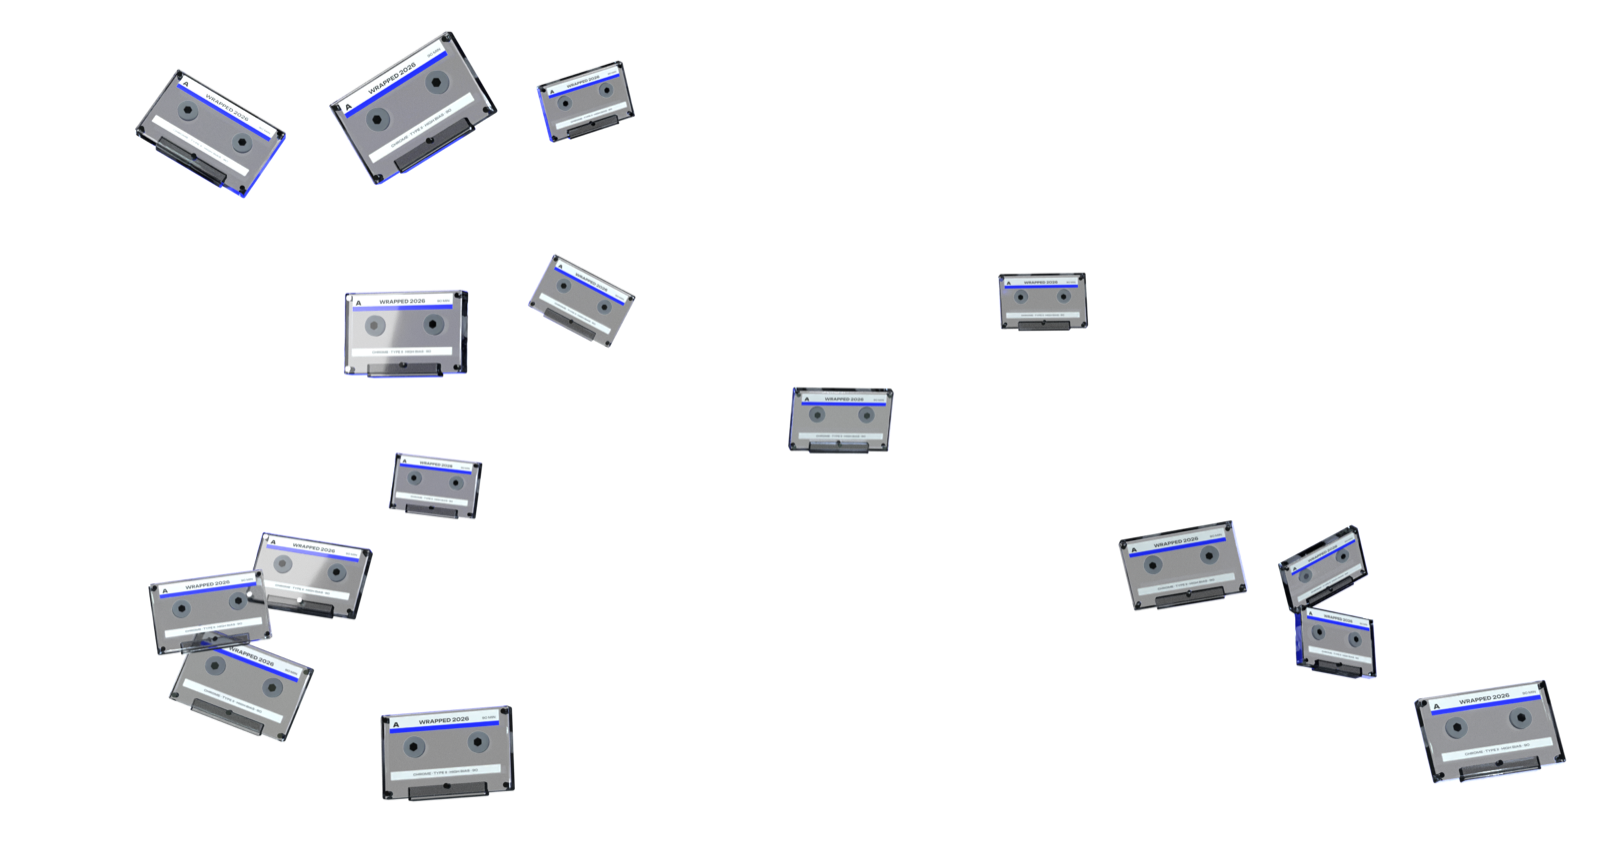
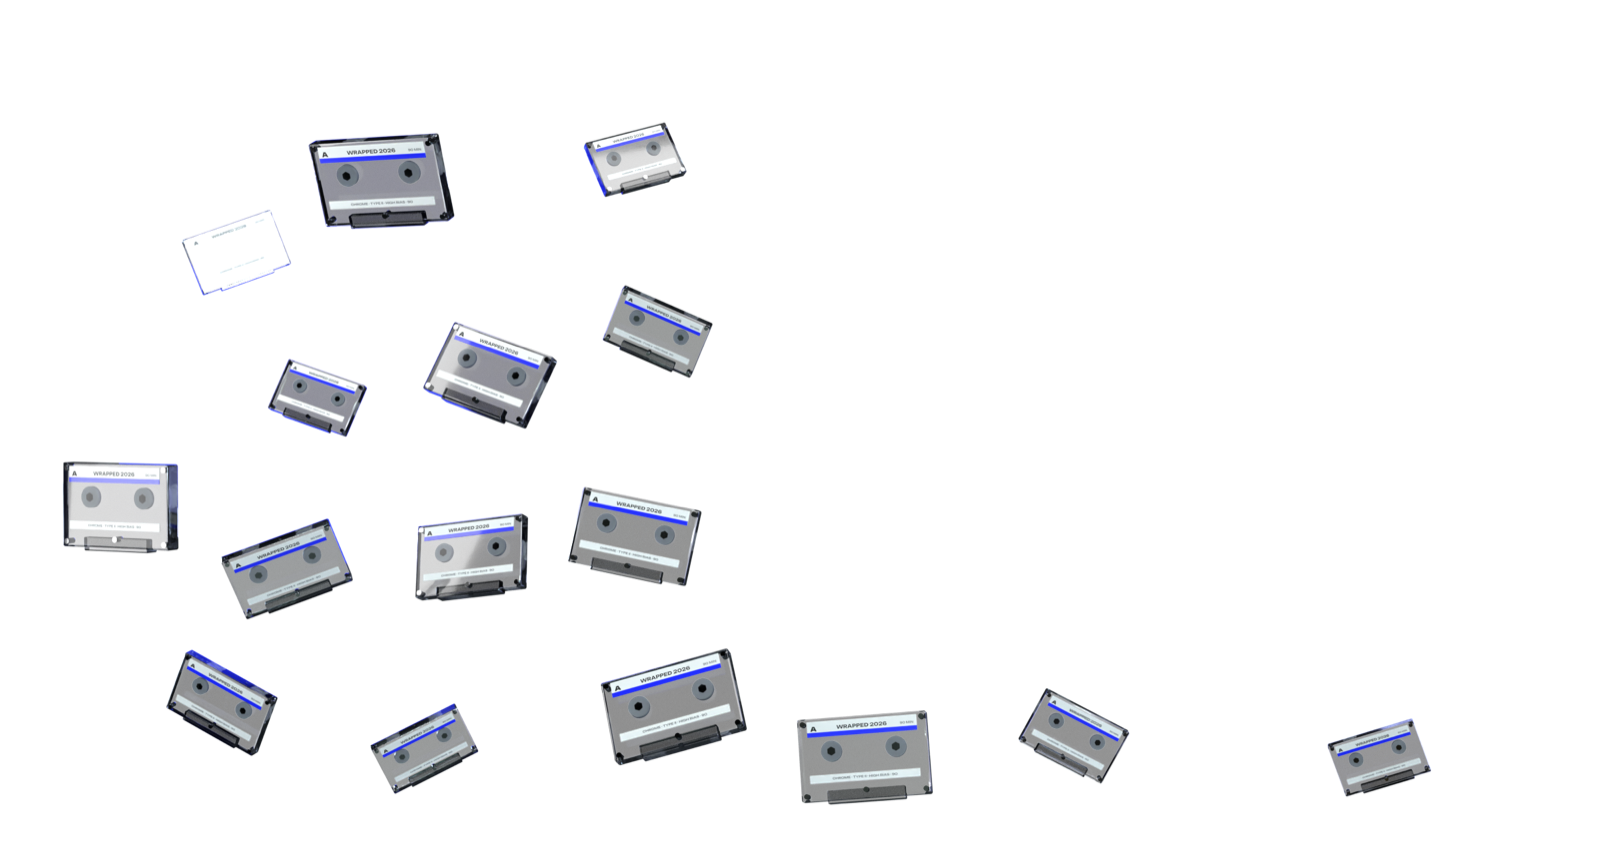
Drifting cassettes and records keep clear of all text

diff --git a/js/chapters/c03_data.js b/js/chapters/c03_data.js
@@ -12,11 +12,13 @@ export class Data extends Chapter {
     this.hg = new Hourglass(); this.scene.add(this.hg.group);
     // background floaters: each one drifts on its own; a click sends it flying to a new spot
     const spot = () => new THREE.Vector2((r() - 0.5) * 0.96, (r() - 0.5) * 0.9);
+    const ext = {};                                          // half extents of each model, at scale 1, in its face-on view
     const floater = (m, key, size) => { const h = spot(), f = { m, key, size, at: h.clone(), from: h.clone(), to: h.clone(), t0: -9, z: -1 - r() * 2.5, ph: r() * 6.283, sp: 0.15 + r() * 0.25, e: new THREE.Euler(1.35 + (r() - 0.5) * 0.9, (r() - 0.5) * 1.0, (r() - 0.5) * 1.3, 'XZY'), w: 0.3 + r() * 0.5, flip: new THREE.Vector3(r() - 0.5, r() - 0.5, r() - 0.5).normalize(), spot };
-      m.traverse(o => { o.userData.fl = f; }); this.scene.add(m); return f; };
+      if (!ext[key]) { const d = new THREE.Box3().setFromObject(m).getSize(new THREE.Vector3()).toArray().sort((a, b) => b - a); ext[key] = [d[0] / 2, d[1] / 2]; }
+      f.ext = ext[key]; m.traverse(o => { o.userData.fl = f; }); this.scene.add(m); return f; };
     this.floaters = [
       ...Array.from({ length: 16 }, () => floater(model('cassette'), 'tracks', 0.7 + r() * 0.5)),
-      ...Array.from({ length: 28 }, (_, i) => floater(model('vinyl', i % 4 === 0 ? { ultra_matte: 'white' } : i % 3 === 0 ? { ultra_matte: 'black_matte' } : {}), 'artists', 0.55 + r() * 0.6)),
+      ...Array.from({ length: 22 }, (_, i) => floater(model('vinyl', i % 4 === 0 ? { ultra_matte: 'white' } : i % 3 === 0 ? { ultra_matte: 'black_matte' } : {}), 'artists', 0.55 + r() * 0.6)),
     ];
     this.ray = new THREE.Raycaster(); this.ndc = new THREE.Vector2(); this.qf = new THREE.Quaternion();
     let down = null;
@@ -28,8 +30,7 @@ export class Data extends Chapter {
       this.ray.setFromCamera(this.ndc, this.camera);
       const hit = this.ray.intersectObjects(this.floaters.map(f => f.m), true)[0];
       const f = hit && hit.object.userData.fl; if (!f) return;
-      let to; do { to = f.spot(); } while (to.distanceTo(f.at) < 0.35);
-      f.from.copy(f.at); f.to.copy(to); f.t0 = this.t;
+      f.from.copy(f.at); f.to.copy(this.freeSpot(f, f.at)); f.t0 = this.t;
     });
     const shares = Array.from({ length: 18 }, () => Math.pow(r(), 2.2)).sort((a, b) => b - a);
     this.gen = []; let total = 0;
@@ -37,6 +38,29 @@ export class Data extends Chapter {
     this.genre = new Records(total); this.scene.add(this.genre.group);
     this.gen.forEach(g => { for (let k = 0; k < g.h; k++) this.genre.color(g.start + k, g.i < 3 ? C.ultra : g.i < 5 ? C.white : 0x18181c); });
     this.tmp = new THREE.Vector3(); this.Y = new THREE.Vector3(0, 1, 0); this.q = new THREE.Quaternion(); this.q2 = new THREE.Quaternion(); this.e = new THREE.Euler(); this.pos = new THREE.Vector3();
+  }
+  /** Screen boxes of all text / bars near each floater area, stored relative to the area's anchor top. */
+  keepOut() {
+    const items = [...this.el.querySelectorAll('.it.t, .it.shape')].map(e => e.getBoundingClientRect()).filter(r => r.width > 0);
+    this.kept = Object.assign(this.kept || {}, { w: this.world.w });
+    for (const key of ['tracks', 'artists']) {
+      const a = this.anchors[key]; if (!a) { this.kept[key] = []; continue; }
+      const ar = a.getBoundingClientRect(), cy = (ar.top + ar.bottom) / 2, half = ar.height * 1.15 / 2 + 200;
+      this.kept[key] = items.filter(r => r.bottom > cy - half && r.top < cy + half).map(r => [r.left - 6, r.top - 6 - ar.top, r.right + 6, r.bottom + 6 - ar.top]);
+    }
+  }
+  /** A random spot (normalised area coords) where the floater, with its drift, stays clear of the text. */
+  freeSpot(f, away) {
+    const a = this.anchors[f.key], ar = a.getBoundingClientRect(), Wp = this.world.w, Hp = ar.height * 1.15, rects = (this.kept && this.kept[f.key]) || [];
+    const vp = this.viewport(), k = vp.h / this.world.h, S = f.size * (vp.w / 1440) * (f.key === 'tracks' ? 120 : 110);
+    const rx = f.ext[0] * S / k + 0.09 * Wp, ry = f.ext[1] * S / k + 0.09 * Hp;
+    for (let n = 0; n < 200; n++) {
+      const u = (Math.random() - 0.5) * 0.96, v = (Math.random() - 0.5) * 0.9;
+      if (away && Math.hypot(u - away.x, v - away.y) < 0.3 && n < 150) continue;
+      const X = u * Wp + Wp / 2, Y = ar.height / 2 - v * Hp, g = n < 120 ? 1 : 0.4;
+      if (!rects.some(q => X > q[0] - rx * g && X < q[2] + rx * g && Y > q[1] - ry * g && Y < q[3] + ry * g)) return new THREE.Vector2(u, v);
+    }
+    return new THREE.Vector2((Math.random() > 0.5 ? 0.42 : -0.42), (Math.random() - 0.5) * 0.8);
   }
   update(p, info, dt) {
     this.t += dt;
@@ -54,17 +78,28 @@ export class Data extends Chapter {
       this.hg.update(T, v, 1 + kick * 3);
     }
     // cassettes and records drifting behind the text; a clicked one arcs over to its new spot, flipping once
-    const vp = this.viewport(), U = vp.w / 1440;
+    const vp = this.viewport(), U = vp.w / 1440, Wp = this.world.w, cz = this.camera.position.z;
+    if (!this.kept || this.kept.w !== Wp || (this.frame = (this.frame || 0) + 1) % 30 === 0) this.keepOut();
     for (const key of ['tracks', 'artists']) {
       const c = this.box(key); if (!c) continue;
-      const v = easeOut(range(c.vis, 0.05, 0.9)), H = c.h * 1.15;
+      const v = easeOut(range(c.vis, 0.05, 0.9)), H = c.h * 1.15, rects = this.kept[key].map(q => [q[0], q[1] + c.top, q[2], q[3] + c.top]);
+      if (!this.kept[key + 'Placed']) { this.kept[key + 'Placed'] = 1; for (const f of this.floaters) if (f.key === key) { const s0 = this.freeSpot(f); f.at.copy(s0); f.from.copy(s0); f.to.copy(s0); } }
       for (const f of this.floaters) {
         if (f.key !== key) continue;
         const k = clamp((T - f.t0) / 1.2), e2 = easeInOut(k), arc = Math.sin(k * Math.PI);
         f.at.lerpVectors(f.from, f.to, e2);
         const dx = Math.sin(T * f.sp * 1.6 + f.ph) * 0.06 + Math.sin(T * 0.23 + f.ph * 2) * 0.03, dy = Math.cos(T * f.sp * 1.3 + f.ph * 1.3) * 0.09;
         const S = f.size * U * (key === 'tracks' ? 120 : 110);
-        f.m.position.set((f.at.x + dx) * vp.w, c.y + (f.at.y + dy) * H, f.z * S + arc * S * 2.5);
+        // keep clear of every line of text: work in screen pixels, push the object out of any text box it touches
+        const z = f.z * S + arc * S * 2.5, persp = cz / (cz - z), rx = f.ext[0] * S / c.k * persp + 8, ry = f.ext[1] * S / c.k * persp + 8;
+        let X = (f.at.x + dx) * Wp + Wp / 2, Y = (c.top + c.bottom) / 2 - (f.at.y + dy) * H / c.k;
+        for (let it = 0; it < 3; it++) for (const q of rects) {
+          if (X > q[0] - rx && X < q[2] + rx && Y > q[1] - ry && Y < q[3] + ry) {
+            const m = [X - (q[0] - rx), (q[2] + rx) - X, Y - (q[1] - ry), (q[3] + ry) - Y], i = m.indexOf(Math.min(...m));
+            if (i === 0) X = q[0] - rx; else if (i === 1) X = q[2] + rx; else if (i === 2) Y = q[1] - ry; else Y = q[3] + ry;
+          }
+        }
+        f.m.position.set((X - Wp / 2) * c.k / persp, -(Y - this.world.h / 2) * c.k / persp, z);
         this.e.set(f.e.x + Math.sin(T * f.w * 1.4 + f.ph) * 0.45, key === 'artists' ? f.e.y + T * f.w * 2.2 : f.e.y + Math.sin(T * f.w) * 0.5, f.e.z + Math.sin(T * f.w * 0.8 + f.ph) * 0.4, 'XZY'); f.m.quaternion.setFromEuler(this.e);
         if (k > 0 && k < 1) { this.qf.setFromAxisAngle(f.flip, e2 * Math.PI * 2); f.m.quaternion.premultiply(this.qf); }
         f.m.scale.setScalar(Math.max(S * v, 1e-4));

diff --git a/index.html b/index.html
@@ -19,7 +19,7 @@
   "./js/chapters/c00_hero.js": "./js/chapters/c00_hero.js?v=d3c09ff1",
   "./js/chapters/c01_ring.js": "./js/chapters/c01_ring.js?v=22615780",
   "./js/chapters/c02_history.js": "./js/chapters/c02_history.js?v=cf9b9a67",
-  "./js/chapters/c03_data.js": "./js/chapters/c03_data.js?v=18ec11fc",
+  "./js/chapters/c03_data.js": "./js/chapters/c03_data.js?v=60487425",
   "./js/chapters/c04_lab.js": "./js/chapters/c04_lab.js?v=3a282fbf",
   "./js/chapters/c05_story.js": "./js/chapters/c05_story.js?v=1e4505a7",
   "./js/chapters/c06_social.js": "./js/chapters/c06_social.js?v=cdd999a7",

diff --git a/blender/objects3d.py b/blender/objects3d.py
@@ -458,23 +458,31 @@ def c_data():
         vinyl_fast(M_of(Vector((0, 0, -7 + k * 0.2)) + off, Euler((0, 0, a)).to_matrix().to_4x4(), 1.6), 'ultra_matte' if k % 10 == 9 else 'black_matte')
     camera((0, -26, 4.5), (0, 0, 0.0), 55)
     render('data_minutes')
-    # TRACKS — cassettes drifting across the whole width, behind the text
+    # TRACKS / ARTISTS — objects drifting across the whole width, but never under the text (boxes in Figma px of the area)
+    def free_spots(n, W, H, keep, rpx, seed):
+        rng = random.Random(seed); out = []; tries = 0
+        while len(out) < n:
+            tries += 1
+            if tries > 20000: break
+            x, y = rng.uniform(rpx, W - rpx), rng.uniform(rpx * 0.7, H - rpx * 0.7)
+            if any(x > k[0] - rpx and x < k[2] + rpx and y > k[1] - rpx * 0.7 and y < k[3] + rpx * 0.7 for k in keep): continue
+            if any((x - o[0]) ** 2 + (y - o[1]) ** 2 < (rpx * 1.5) ** 2 for o in out): continue
+            out.append((x, y))
+        return out
+    FW = 21.6
     reset(); MATS.clear(); VCACHE.clear()
     setup(2400, 1280, 110, glass=True, env_strength=0.5); rig(0.6)
-    rng = random.Random(8); FW = 21.6; FH = FW * 1280 / 2400
-    for i in range(16):
-        x = (rng.random() - .5) * .9 * FW; z = (rng.random() - .5) * .82 * FH; y = rng.uniform(0, 4)
-        cassette(None, loc=(x, y, z), rot=(math.radians(90) + rng.uniform(-.45, .45), rng.uniform(-.6, .6), rng.uniform(-.5, .5)), scale=rng.uniform(.6, 1.0), name='c%d' % i, with_tape=False)
+    rng = random.Random(8); FH = FW * 1280 / 2400
+    for i, (x, y) in enumerate(free_spots(16, 1440, 767, [(40, 40, 140, 80), (720, 90, 1410, 540)], 95, 8)):
+        cassette(None, loc=((x / 1440 - .5) * FW, rng.uniform(0, 1.5), -(y / 767 - .5) * FH), rot=(math.radians(90) + rng.uniform(-.45, .45), rng.uniform(-.6, .6), rng.uniform(-.5, .5)), scale=rng.uniform(.6, .95), name='c%d' % i, with_tape=False)
     camera((0, -30, 0), (0, 0, 0), 50)
     render('data_tracks')
-    # ARTISTS — records drifting across the whole width
     reset(); MATS.clear(); VCACHE.clear()
     setup(2400, 1070, 110, env_strength=0.2); rig(0.6)
     rng = random.Random(9); FH = FW * 1070 / 2400
-    for i in range(28):
-        x = (rng.random() - .5) * .92 * FW; z = (rng.random() - .5) * .85 * FH; y = rng.uniform(0, 4)
+    for i, (x, y) in enumerate(free_spots(14, 1440, 644, [(40, 80, 180, 105), (10, 135, 870, 490), (0, 560, 1440, 644)], 70, 9)):
         d = Vector((rng.uniform(-.5, .5), -1, rng.uniform(-.6, .6)))
-        vinyl_fast(M_of((x, y, z), basis(d), rng.uniform(.42, .9)), 'white' if i % 4 == 0 else ('black_matte' if i % 3 == 0 else 'ultra_matte'))
+        vinyl_fast(M_of(((x / 1440 - .5) * FW, rng.uniform(0, 1.5), -(y / 644 - .5) * FH), basis(d), rng.uniform(.42, .8)), 'white' if i % 4 == 0 else ('black_matte' if i % 3 == 0 else 'ultra_matte'))
     camera((0, -30, 0), (0, 0, 0), 50)
     render('data_artists')
     # GENRES — ring of record stacks, height = share
